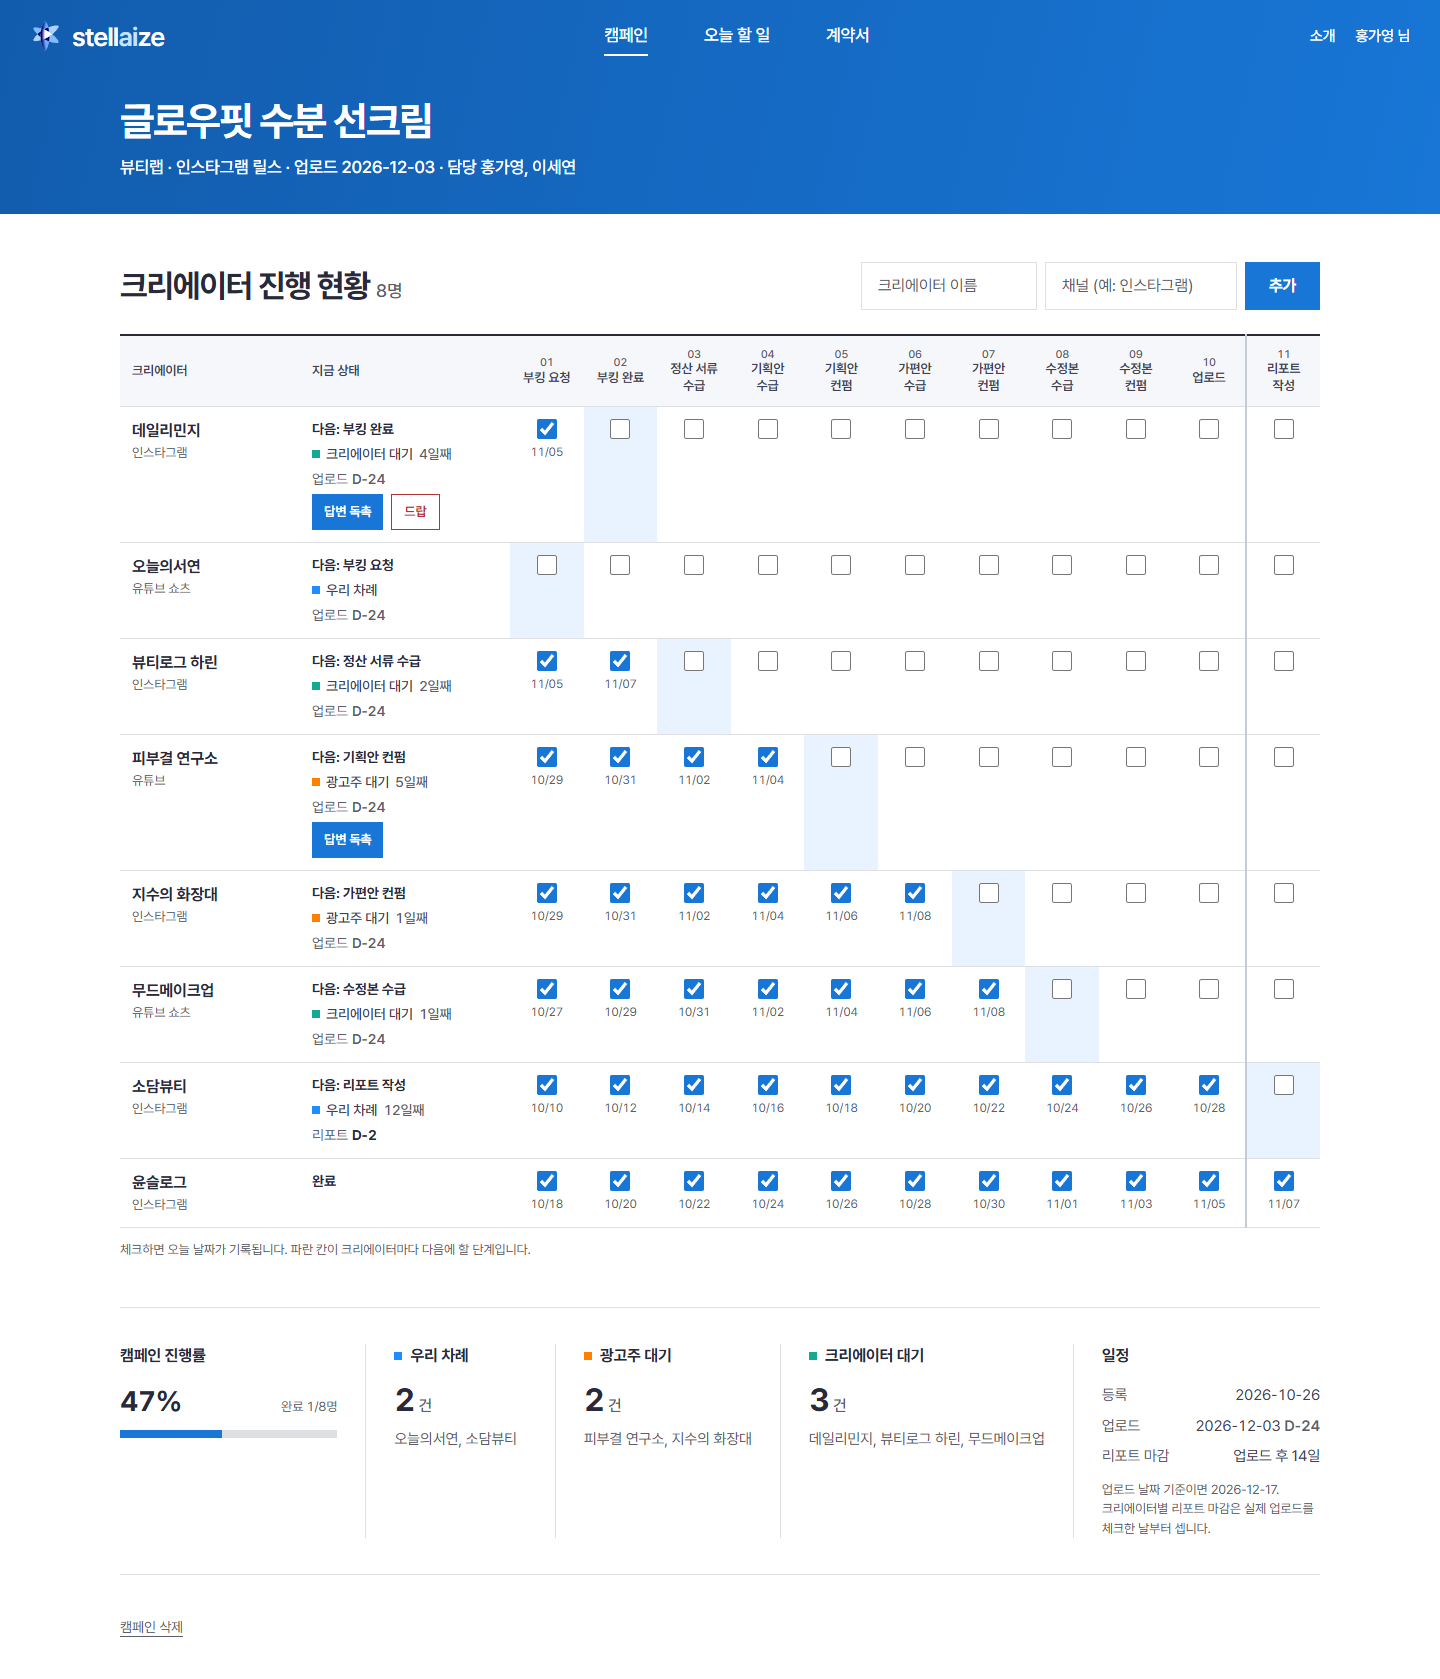
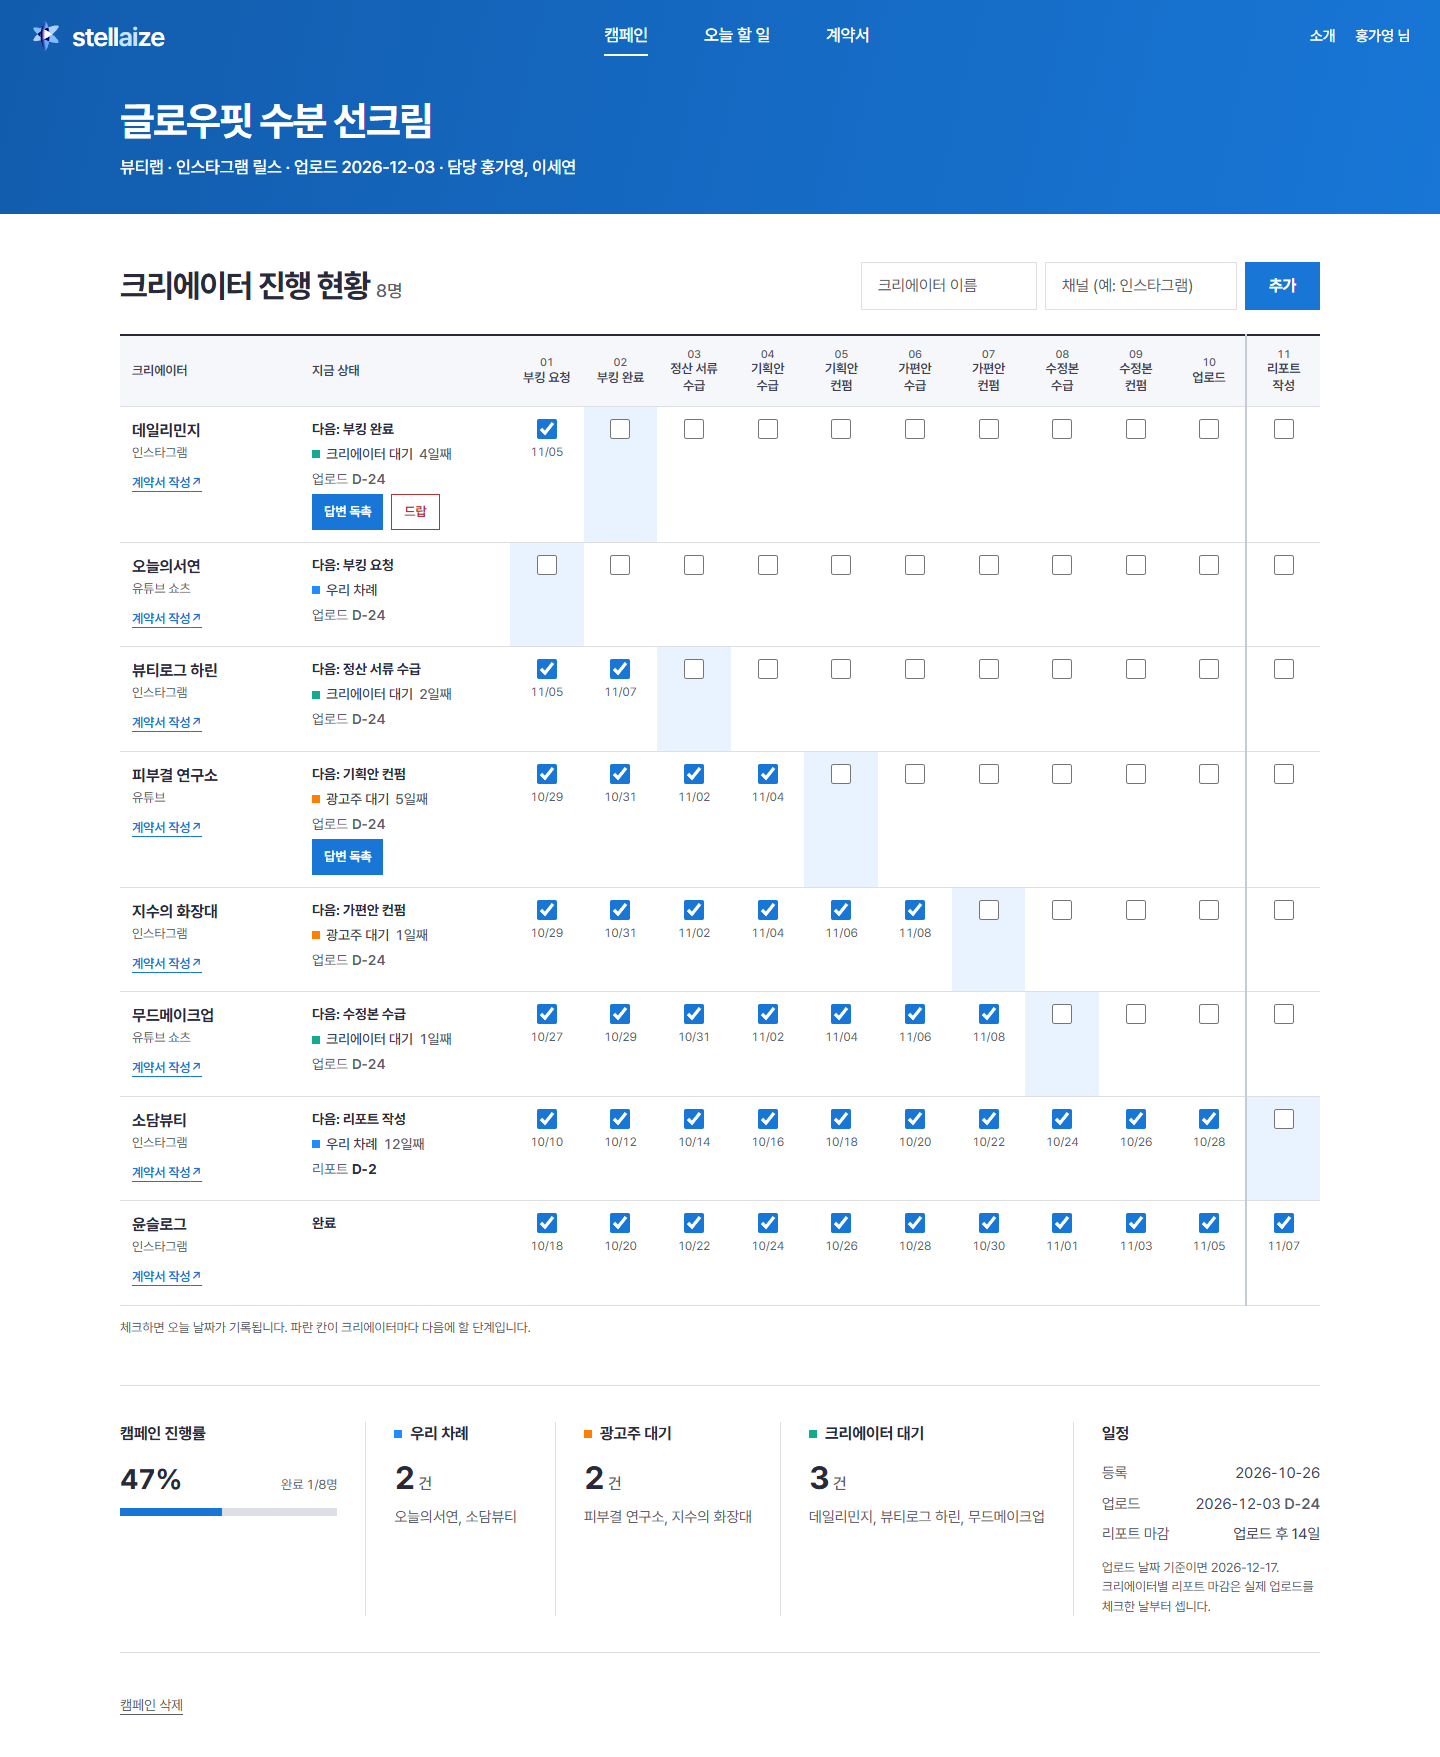
Link the contract app per creator; drop Slack and Google Sheets from phase 3
- Contract tab explains the local contract app (실행.bat → localhost:8501) and
  lists campaigns with a link per creator; the creator table has the same link
- Links carry only campaign name, advertiser, upload date and creator name;
  documents and personal data stay in the contract app on each PC
- docs/contract-app: apply_hub_prefill() for the contract app's app.py, which
  fills those four fields once and clears the query so 모두 지우기 doesn't refill
  (checked with Streamlit AppTest against a stub using the same widget keys)
- README/PRODUCT.md: contract connection, phase 3 without Slack and Sheets

diff --git a/app/contracts/page.tsx b/app/contracts/page.tsx
@@ -1,35 +1,37 @@
-import { PageBand, pageWrap, ui } from "@/components/PageBand";
+import { ContractPicker } from "@/components/ContractPicker";
+import { PageBand, pageWrap } from "@/components/PageBand";
 
 export const metadata = { title: "계약서 │ Campaign Hub │ 스텔라이즈" };
 
-// 팀장님이 만든 계약서 작성 자동화 웹앱으로 보내는 탭. 첫 단계는 링크 연결이다.
-// Set NEXT_PUBLIC_CONTRACT_APP_URL (.env.local or Vercel) to the app's address to turn the button on.
-const CONTRACT_APP_URL = process.env.NEXT_PUBLIC_CONTRACT_APP_URL;
+// 계약서 자동작성 앱(팀장 제작)으로 넘기는 탭. 앱은 정산서류 개인정보 때문에 각자 PC에서만 열리므로
+// 이 허브는 앱을 품지 않고, 캠페인 정보를 담은 링크로 연다.
+const STEPS = [
+  { title: "계약서 앱 켜기", body: "공유 드라이브의 계약서 자동작성 시스템 폴더를 내 PC로 복사하고 실행.bat 을 더블클릭합니다. 검은 창은 닫지 않습니다." },
+  { title: "크리에이터 고르기", body: "아래 표에서 크리에이터 이름을 누르면 계약서 앱이 새 탭으로 열립니다." },
+  { title: "서류 올리고 내려받기", body: "캠페인명, 광고주명, 업로드 날짜, 크리에이터명이 미리 채워져 있습니다. 정산서류를 올리고 나머지를 확인해 내려받습니다." },
+];
 
 export default function ContractsPage() {
   return (
     <>
-      <PageBand title="계약서">크리에이터 계약서는 계약서 작성 앱에서 만듭니다.</PageBand>
-      <main className={`${pageWrap} py-12 md:py-16`}>
-        <div className="max-w-[720px] border-t-2 border-ink-900 pt-8">
-          {CONTRACT_APP_URL ? (
-            <>
-              <p className="text-[17px] leading-relaxed text-ink-800">
-                버튼을 누르면 계약서 작성 앱이 새 탭에서 열립니다. 캠페인 허브 화면은 그대로 남아 있습니다.
-              </p>
-              <a href={CONTRACT_APP_URL} target="_blank" rel="noopener noreferrer" className={`${ui.primary} mt-8`}>
-                계약서 작성 앱 열기
-              </a>
-            </>
-          ) : (
-            <>
-              <p className="text-[17px] leading-relaxed text-ink-800">계약서 작성 앱을 연결하는 중입니다. 앱 주소가 정해지면 이 화면에서 바로 열 수 있습니다.</p>
-              <p className="mt-4 text-[15px] leading-relaxed text-ink-600">
-                연결 다음 단계로, 캠페인과 크리에이터 정보를 계약서에 자동으로 채우는 방법을 검토합니다.
-              </p>
-            </>
-          )}
-        </div>
+      <PageBand title="계약서">크리에이터 계약서는 계약서 자동작성 앱에서 만듭니다. 캠페인 정보는 이 화면에서 골라 넘깁니다.</PageBand>
+      <main className={`${pageWrap} py-10 md:py-14`}>
+        <ol className="grid gap-y-6 border-t-2 border-ink-900 pt-6 md:grid-cols-3 md:gap-x-10">
+          {STEPS.map((s, i) => (
+            <li key={s.title}>
+              <span className="block text-[14px] font-semibold tabular-nums text-ink-600">{String(i + 1).padStart(2, "0")}</span>
+              <h2 className="mt-1 text-[18px] font-bold text-ink-900">{s.title}</h2>
+              <p className="mt-2 text-[15px] leading-relaxed text-ink-600">{s.body}</p>
+            </li>
+          ))}
+        </ol>
+        <p className="mt-8 border-l-2 border-line-strong pl-4 text-[14px] leading-relaxed text-ink-800">
+          신분증, 통장 사본 같은 서류와 개인정보는 계약서 앱이 내 PC 안에서만 처리합니다. 캠페인 허브로는 아무것도 넘어오지 않습니다.
+          앱이 켜져 있지 않으면 링크를 눌렀을 때 &ldquo;사이트에 연결할 수 없음&rdquo;이 뜹니다.
+        </p>
+
+        <h2 className="mb-5 mt-14 text-[26px] font-bold tracking-[-0.04em] text-ink-900 md:text-[32px]">크리에이터 선택</h2>
+        <ContractPicker />
       </main>
     </>
   );

diff --git a/components/ContractPicker.tsx b/components/ContractPicker.tsx
@@ -1,0 +1,62 @@
+"use client";
+import { CONTRACT_APP_URL, contractLink } from "@/lib/contract";
+import { useCampaigns } from "@/lib/store";
+import { Loading, table } from "./PageBand";
+
+const base = "inline-flex min-h-9 items-center whitespace-nowrap text-[14px] font-semibold underline underline-offset-4";
+const link = `${base} text-primary-600 hover:text-primary-700`;
+
+// Pick the campaign and creator here; their names travel to the contract app so they aren't typed twice.
+export function ContractPicker() {
+  const campaigns = useCampaigns();
+  if (!campaigns) return <Loading />;
+  if (campaigns.length === 0) return <p className="border-t-2 border-ink-900 py-10 text-center text-[16px] text-ink-600">등록한 캠페인이 없습니다.</p>;
+
+  return (
+    <div className="overflow-x-auto">
+      <table className={table.wrap}>
+        <thead>
+          <tr>
+            {["캠페인", "광고주", "업로드 날짜", "크리에이터"].map((h) => (
+              <th key={h} className={table.th}>
+                {h}
+              </th>
+            ))}
+          </tr>
+        </thead>
+        <tbody>
+          {campaigns.map((c) => {
+            const live = c.entries.filter((e) => !e.droppedAt);
+            return (
+              <tr key={c.id}>
+                <td className={`${table.td} font-bold text-ink-900`}>{c.name}</td>
+                <td className={table.td}>{c.advertiser}</td>
+                <td className={`${table.td} whitespace-nowrap tabular-nums`}>{c.uploadDate}</td>
+                <td className={table.td}>
+                  <ul className="flex flex-wrap gap-x-5 gap-y-1">
+                    {live.map((e) => (
+                      <li key={e.id}>
+                        <a href={contractLink(c, e)} target="_blank" rel="noopener noreferrer" className={link}>
+                          {e.name}
+                          <span aria-hidden>↗</span>
+                        </a>
+                      </li>
+                    ))}
+                    <li>
+                      <a href={contractLink(c)} target="_blank" rel="noopener noreferrer" className={`${base} text-ink-600 hover:text-primary-600`}>
+                        크리에이터 없이 열기
+                      </a>
+                    </li>
+                  </ul>
+                </td>
+              </tr>
+            );
+          })}
+        </tbody>
+      </table>
+      <p className="mt-3 text-[13px] text-ink-600">
+        링크는 이 PC의 계약서 앱({CONTRACT_APP_URL.replace(/^https?:\/\//, "")})을 엽니다. 새 탭으로 열립니다.
+      </p>
+    </div>
+  );
+}

diff --git a/components/CreatorTable.tsx b/components/CreatorTable.tsx
@@ -1,6 +1,7 @@
 "use client";
 import { STEPS, REPORT, doneList, entryStatus, type Campaign } from "@/lib/campaigns";
 import { toggleStep, updateEntry } from "@/lib/store";
+import { contractLink } from "@/lib/contract";
 import { DeadlineLine, WaitingLine } from "./badges";
 import { FollowUp } from "./FollowUp";
 
@@ -48,6 +49,15 @@ export function CreatorTable({ campaign, today }: { campaign: Campaign; today: s
                     <th scope="row" className={`${td} ${sticky} px-3 text-left font-normal group-hover:bg-[#f5f7fa]`}>
                       <span className="block text-[16px] font-bold text-ink-900">{e.name}</span>
                       <span className="block text-[13px] text-ink-600">{e.channel}</span>
+                      <a
+                        href={contractLink(campaign, e)}
+                        target="_blank"
+                        rel="noopener noreferrer"
+                        className="mt-1 inline-flex min-h-8 items-center text-[13px] font-semibold text-primary-600 underline underline-offset-4 hover:text-primary-700"
+                      >
+                        계약서 작성<span aria-hidden>↗</span>
+                        <span className="sr-only"> (계약서 앱, 새 탭)</span>
+                      </a>
                     </th>
                     <td className={`${td} group-hover:bg-[#f5f7fa]`}>
                       <p className="text-[14px] font-bold text-ink-900">

diff --git a/lib/contract.ts b/lib/contract.ts
@@ -1,0 +1,18 @@
+import type { Campaign, Entry } from "./campaigns";
+
+/**
+ * 계약서 자동작성 앱(팀장 제작, Streamlit). 정산서류 개인정보 때문에 각자 PC에서 실행.bat 으로 켜고
+ * localhost:8501 에서만 열린다. 그래서 링크는 서버가 아니라 "보는 사람의 PC"를 가리킨다.
+ * 다른 주소로 띄웠다면 NEXT_PUBLIC_CONTRACT_APP_URL 로 바꾼다.
+ */
+export const CONTRACT_APP_URL = process.env.NEXT_PUBLIC_CONTRACT_APP_URL || "http://localhost:8501";
+
+/**
+ * 계약서 앱을 열면서 캠페인 정보를 넘기는 주소. 개인정보는 넣지 않는다(캠페인명·광고주·업로드 날짜·크리에이터명만).
+ * 앱 쪽에서 이 값을 읽으려면 docs/contract-app/ 의 패치가 필요하다. 패치 전에는 빈 계약서 앱이 그대로 열린다.
+ */
+export function contractLink(c: Campaign, e?: Entry) {
+  const q = new URLSearchParams({ from: "campaign-hub", campaign: c.name, advertiser: c.advertiser, upload: c.uploadDate });
+  if (e) q.set("creator", e.name);
+  return `${CONTRACT_APP_URL}/?${q}`;
+}

diff --git a/docs/contract-app/hub_prefill.py b/docs/contract-app/hub_prefill.py
@@ -1,0 +1,29 @@
+# ── 캠페인 허브에서 연 경우: 주소에 담긴 캠페인 정보로 칸을 미리 채운다 ─────────────────
+# 캠페인 허브(계약서 탭, 크리에이터 진행 표)의 "계약서 작성" 링크는 이런 주소로 이 앱을 연다.
+#   http://localhost:8501/?from=campaign-hub&campaign=…&advertiser=…&upload=2026-12-03&creator=…
+# 넘어오는 값은 캠페인명·광고주명·업로드 날짜·크리에이터명뿐이다. 개인정보는 오가지 않는다.
+#
+# app.py 에 넣는 곳: info_key / UPLOAD_DATE_KEY / ppl_key 가 정의된 뒤(광고 금액 절 아래) 아무 곳.
+# main() 맨 앞 apply_queued_values() 바로 다음 줄에서 apply_hub_prefill() 을 부른다.
+
+
+def apply_hub_prefill() -> None:
+    """칸을 그리기 전에 한 번만 넣는다. 넣은 뒤 주소의 값을 지워서 '모두 지우기' 뒤에 다시 채워지지 않게 한다."""
+    q = st.query_params
+    if q.get("from") != "campaign-hub":
+        return
+
+    def text(name: str) -> str:
+        return (q.get(name) or "").strip()[:200]
+
+    if text("campaign"):
+        SS[info_key(fill.INFO_CAMPAIGN)] = text("campaign")
+    if text("advertiser"):
+        SS[info_key(fill.INFO_ADVERTISER)] = text("advertiser")
+    if text("creator"):
+        SS[ppl_key(0, "creator")] = text("creator")
+    try:
+        SS[UPLOAD_DATE_KEY] = date.fromisoformat(text("upload"))
+    except ValueError:
+        pass  # 날짜가 없거나 형식이 다르면 기본값(오늘) 그대로
+    q.clear()

diff --git a/docs/contract-app/README.md b/docs/contract-app/README.md
@@ -1,0 +1,50 @@
+# 계약서 자동작성 앱 ↔ 캠페인 허브 연결
+
+캠페인 허브에서 크리에이터의 **계약서 작성** 링크를 누르면 계약서 앱이 새 탭으로 열리고, 아래 네 칸이 미리 채워집니다.
+
+| 계약서 앱 칸 | 캠페인 허브 값 |
+|---|---|
+| 계약 정보 → 캠페인명 | 캠페인 이름 |
+| 계약 정보 → 광고주명 | 광고주 |
+| 계약 정보 → 업로드 날짜 (광고기간·발행일·지급조건이 이 날짜로 자동 계산) | 캠페인 업로드 날짜 |
+| 광고 금액 → 첫 라인 크리에이터명 | 크리에이터 이름 |
+
+## 개인정보는 어떻게 되나
+
+- 계약서 앱은 지금처럼 **각자 PC에서만**(`localhost:8501`) 열립니다. 설정(`.streamlit/config.toml`의 `address = "localhost"`)은 바꾸지 않습니다.
+- 허브 → 앱으로는 위 네 가지 값만 주소에 담겨 넘어갑니다. 앱 → 허브로는 아무것도 넘어가지 않습니다.
+- 서류(신분증, 통장 사본, 사업자등록증)와 읽어 온 값은 지금처럼 PC 밖으로 나가지 않습니다.
+
+## 계약서 앱에 넣을 수정 (app.py 두 곳)
+
+수정 전에도 링크는 동작합니다. 앱이 그냥 빈 상태로 열릴 뿐입니다. 미리 채우려면 아래를 넣습니다.
+
+1. [hub_prefill.py](hub_prefill.py)의 `apply_hub_prefill()` 함수를 `app.py`에 붙여 넣습니다.
+   `info_key`, `UPLOAD_DATE_KEY`, `ppl_key`가 정의된 뒤면 어디든 됩니다(예: "광고 금액" 절의 `ppl_key` 함수 아래).
+2. `main()` 맨 앞을 이렇게 바꿉니다.
+
+   ```python
+   def main() -> None:
+       apply_queued_values()  # 위젯을 그리기 전에 반영해야 한다
+       apply_hub_prefill()    # 캠페인 허브에서 연 경우 캠페인 정보 미리 채우기
+       render_sidebar()
+   ```
+
+새 패키지나 인터넷 연결은 필요 없습니다(`st.query_params`는 지금 쓰는 Streamlit에 들어 있습니다). 수정한 `app.py`로 배포 폴더를 다시 만들면 됩니다.
+
+## 동작 규칙
+
+- 주소에 `from=campaign-hub`가 있을 때만 채웁니다. 다른 경로로 연 앱은 지금과 똑같습니다.
+- 칸을 그리기 전에 한 번 넣고, 바로 주소의 값을 지웁니다. 그래서 사용자가 고친 값을 덮지 않고, **모두 지우기** 뒤에도 다시 채워지지 않습니다.
+- 업로드 날짜 형식이 맞지 않으면 기본값(오늘)을 둡니다.
+
+## 확인한 것
+
+계약서 앱과 같은 칸 이름(`ci_campaign`, `ci_advertiser`, `ci_upload_date`, `ppl_0_creator`)과 같은 순서로 그린 작은 Streamlit 앱에 이 함수를 넣어 Streamlit 1.67 `AppTest`로 확인했습니다.
+
+- 허브 링크로 열면 네 칸이 채워진다
+- 채운 뒤 사용자가 고친 값이 다시 그려도 유지된다
+- 모두 지우기 뒤에 다시 채워지지 않는다
+- 허브가 아닌 주소와 잘못된 날짜는 무시한다
+
+실제 계약서 앱(v3.1)에 넣은 뒤에는 `tests/test_app_reset.py`와 단위 테스트를 한 번 돌려 주세요.

diff --git a/PRODUCT.md b/PRODUCT.md
@@ -24,7 +24,8 @@ web
 
 - 업무 흐름: 접수 → 리스트업 → 부킹 → 제작 → 업로드 → 리포트 작성 → 완료.
 - 크리에이터별 진행 단계(팀장 피드백 2026-11-07): 부킹 요청 → 부킹 완료 → 정산 서류 수급 → 기획안 수급 → 기획안 컨펌 → 가편안 수급 → 가편안 컨펌 → 수정본 수급 → 수정본 컨펌 → 업로드. 단계가 끝날 때마다 체크한다. 리스트업은 이 앱에서 추적하지 않는다.
-- 크리에이터 DB와 메일 템플릿은 만들지 않는다(크리에이터 시트가 흩어져 있고 회사 계정 연동이 어렵다, 메일은 사내 AI로 쓴다). 계약서는 팀장이 만든 계약서 작성 앱과 연결한다.
+- 슬랙과 구글 시트(구글 계정)는 연동하지 않는다. 팀 데이터는 이 앱 안에서 입력한다.
+- 크리에이터 DB와 메일 템플릿은 만들지 않는다(크리에이터 시트가 흩어져 있고 회사 계정 연동이 어렵다, 메일은 사내 AI로 쓴다). 계약서는 팀장이 만든 계약서 자동작성 앱(Streamlit, 각자 PC의 localhost:8501에서만 실행)이 만든다. 허브는 캠페인명·광고주·업로드 날짜·크리에이터명을 링크로 넘길 뿐 서류나 개인정보를 받지 않는다.
 - 단가 문의에 회신이 없는 크리에이터는 리마인드하지 않고 제안에서 뺀다(드랍).
 - 콘텐츠는 크리에이터 → 우리 → 광고주 → 우리 → 크리에이터 순서로 오간다(기획안 → 가편안 → 수정본).
 - 채널 통계(평균 조회수, 좋아요, 댓글)는 사내 채널 분석 프로그램에서 뽑아 입력한다.
@@ -39,7 +40,7 @@ web
 - 주민등록번호 같은 고유식별정보는 암호화해서 저장하고 화면에서는 가린다.
 - 날짜는 한국 시간 기준이다.
 - 빨간색은 마감이 지난 건에만 쓴다(업로드 날짜, 업로드 후 14일 리포트 마감).
-- 미정: 제안가 계산 규칙(수수료 얹기/떼기, 부가세, 반올림), 단계별 마감이 필요한지, 계약서 앱과 데이터를 주고받는 방식.
+- 미정: 제안가 계산 규칙(수수료 얹기/떼기, 부가세, 반올림), 단계별 마감이 필요한지, 계약서 앱에 단가·PPL 유형까지 넘길지.
 - 용어: 인입, 리스트업, 피저체크, 드랍, 날인본, NET, 2차활용가, PA 광고코드.
 
 ## Brand Commitments
